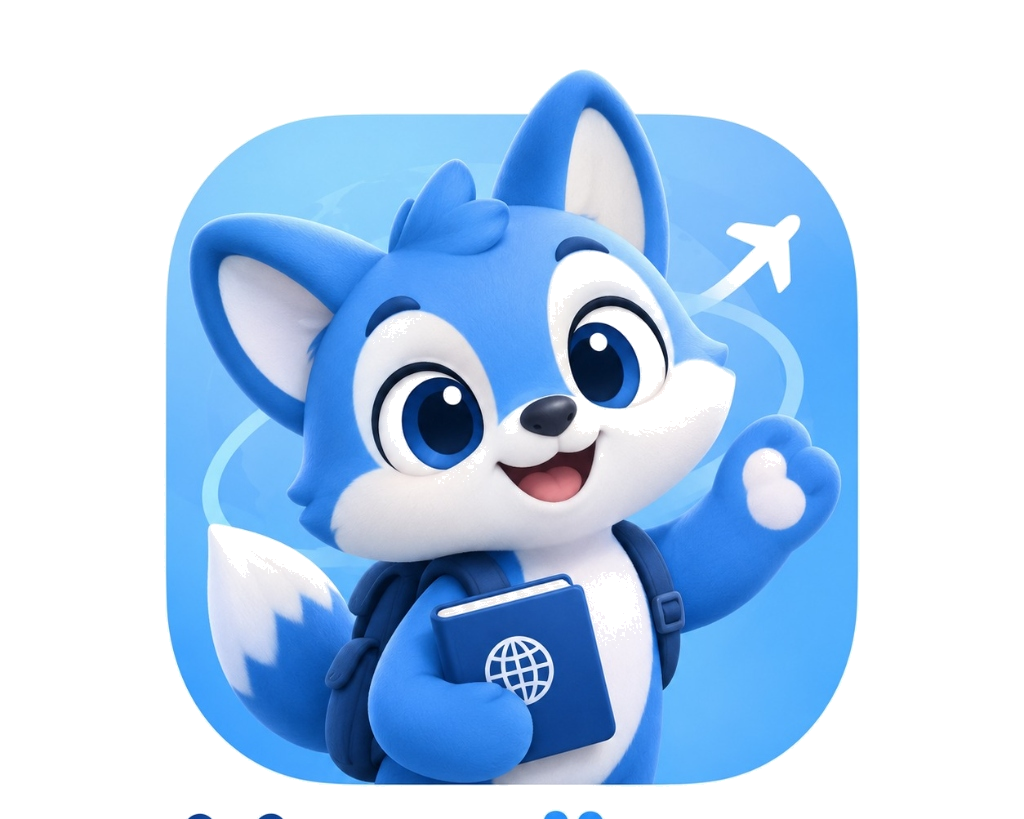
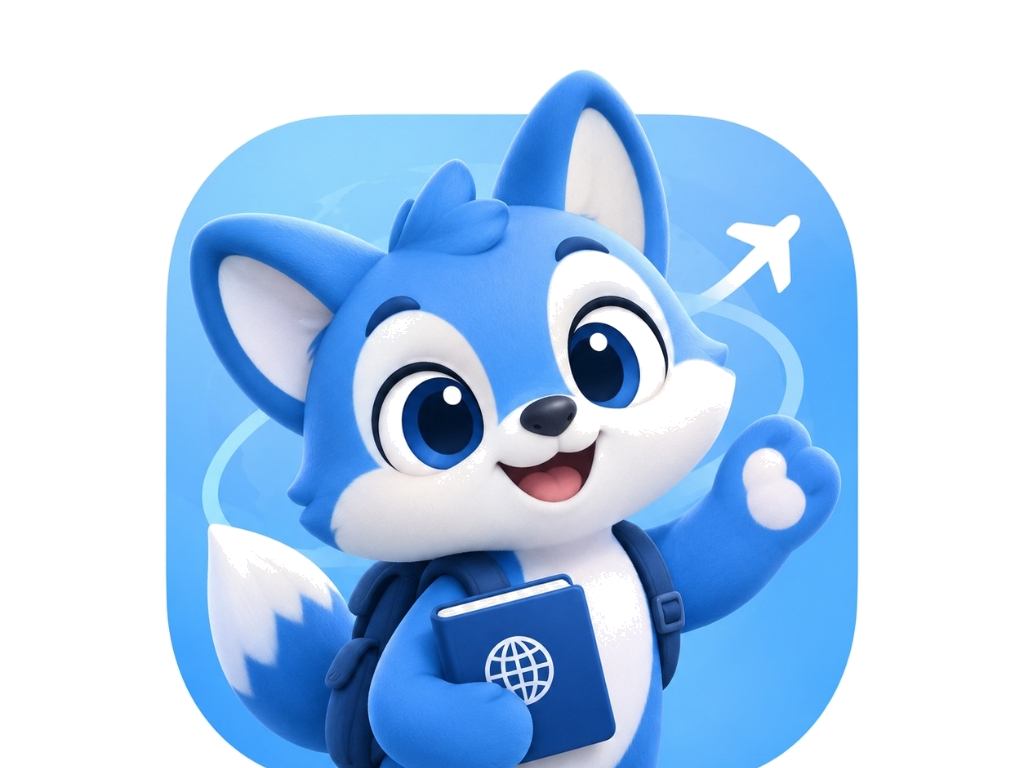
style: fix mascot crop bounds and centering

diff --git a/apps/web/app/page.tsx b/apps/web/app/page.tsx
@@ -21,7 +21,7 @@ export default function LandingPage() {
           {/* Left: Mascot/Graphic */}
           <div className="flex justify-center order-2 md:order-1">
             <div className="relative w-72 h-72 md:w-96 md:h-96 bg-[#ddf4ff] rounded-full flex items-center justify-center shadow-[0_0_80px_-15px_rgba(28,176,246,0.4)] animate-bounce" style={{ animationDuration: '3s' }}>
-              <Image src="/mascot.png" alt="Movelingo Mascot" width={300} height={300} className="w-56 h-56 md:w-72 md:h-72 object-contain" style={{ WebkitMaskImage: 'linear-gradient(to bottom, black 80%, transparent 100%)', maskImage: 'linear-gradient(to bottom, black 80%, transparent 100%)' }} priority />
+              <Image src="/mascot.png" alt="Movelingo Mascot" width={300} height={300} className="w-56 h-56 md:w-72 md:h-72 object-contain translate-y-6 md:translate-y-8" style={{ WebkitMaskImage: 'linear-gradient(to bottom, black 80%, transparent 100%)', maskImage: 'linear-gradient(to bottom, black 80%, transparent 100%)' }} priority />
               <div className="absolute top-4 right-0 md:-right-8 bg-white px-6 py-4 rounded-2xl rounded-bl-none shadow-xl border-2 border-slate-200 font-extrabold text-slate-700 text-lg animate-pulse" style={{ animationDuration: '2.5s' }}>
                 Move fast. Learn right.
               </div>

diff --git a/process_new_mascot.py b/process_new_mascot.py
@@ -20,12 +20,12 @@ try:
     
     width, height = img.size
     
-    # Crop the top 80% for the mascot
-    mascot_crop = img.crop((0, 0, width, int(height * 0.8)))
+    # Crop the top 75% for the mascot
+    mascot_crop = img.crop((0, 0, width, int(height * 0.75)))
     mascot_nobg = remove_white_bg(mascot_crop)
     
-    # Crop the bottom 20% for the logo text
-    logo_crop = img.crop((0, int(height * 0.8), width, height))
+    # Crop the bottom 25% for the logo text
+    logo_crop = img.crop((0, int(height * 0.75), width, height))
     logo_nobg = remove_white_bg(logo_crop)
 
     # Save them
